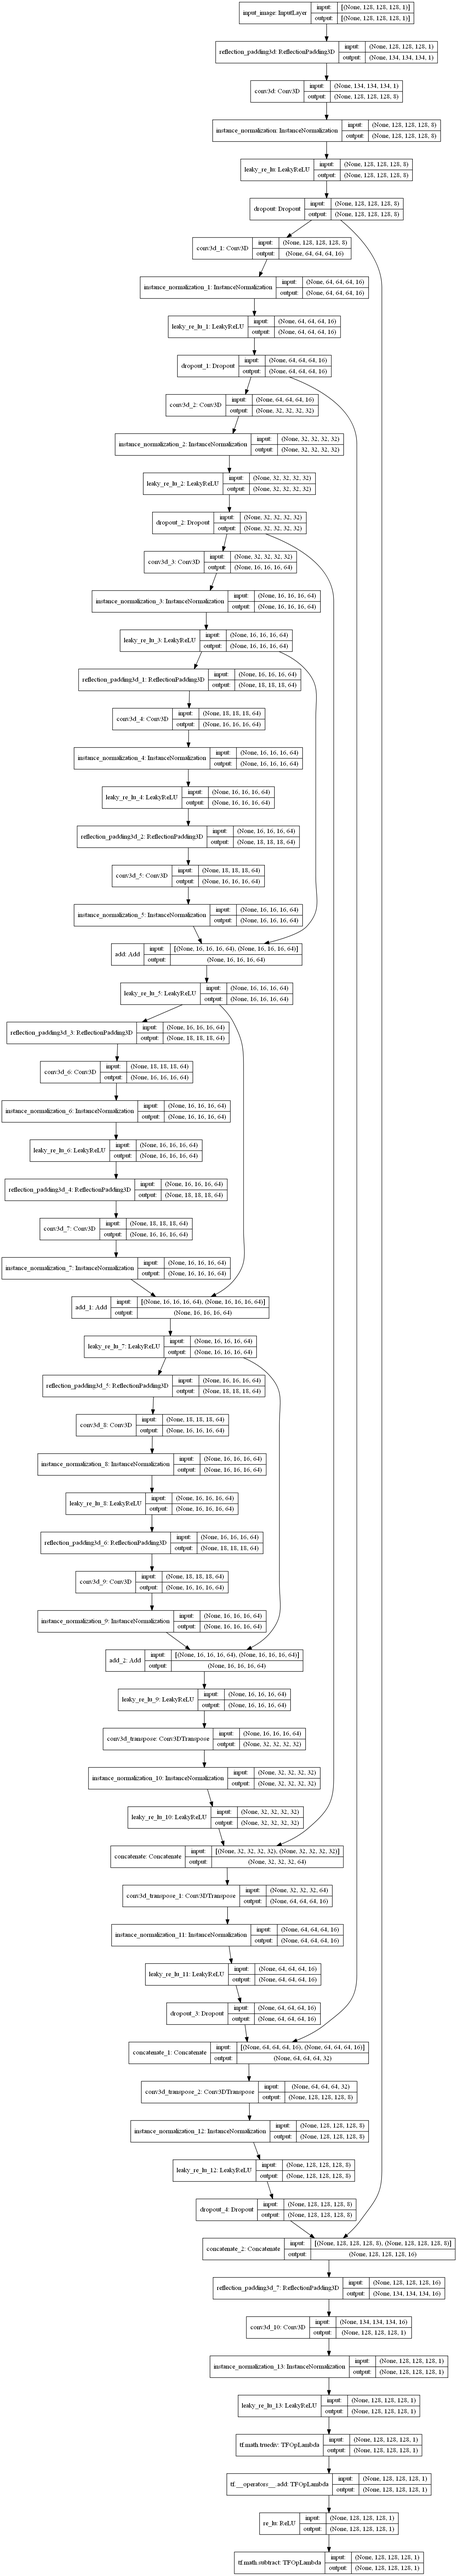
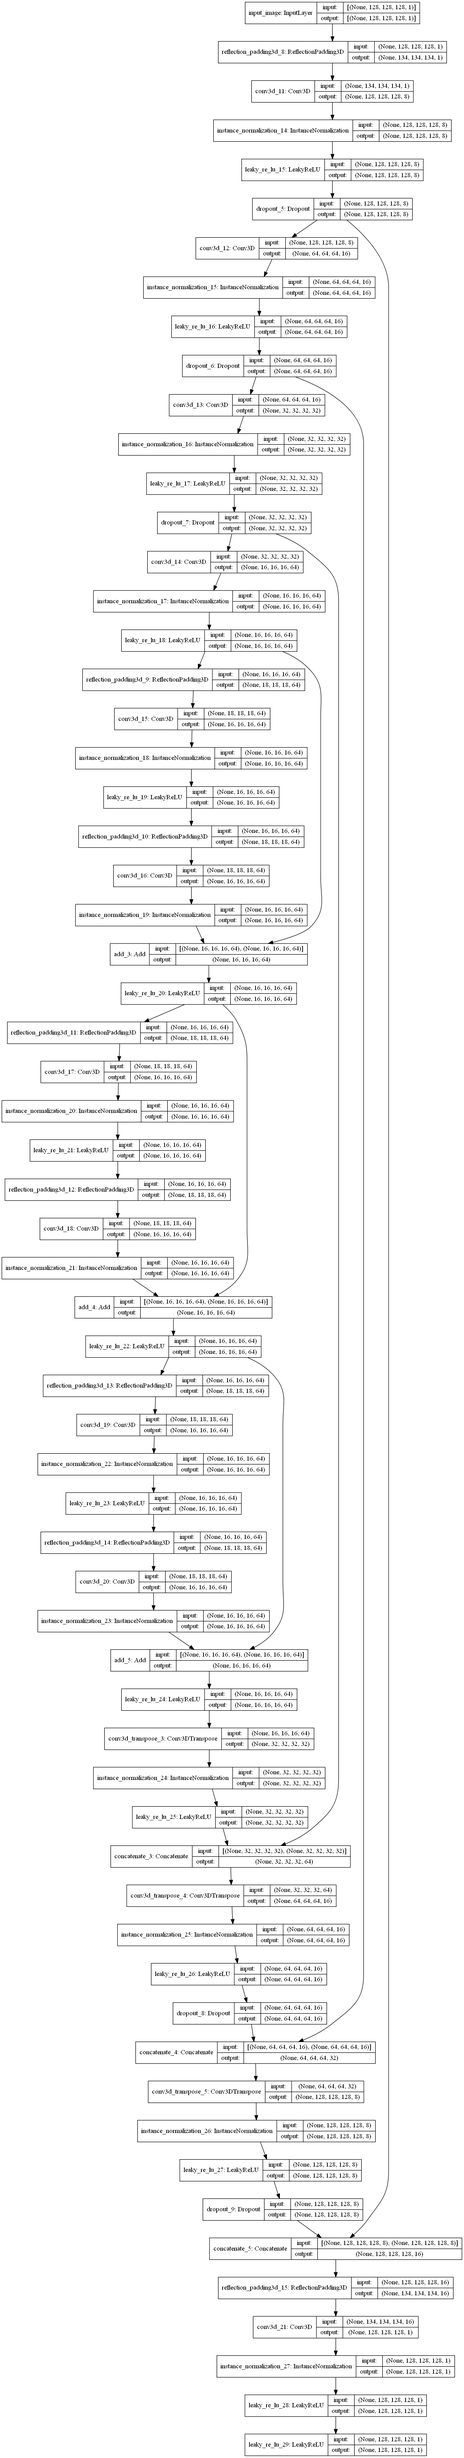
no reflect and add a layer for GAN

Changed region(s): [[0.031, 0.0, 0.9915, 1.0], [0.4648, 0.0311, 0.4957, 0.0623], [0.2479, 0.1557, 0.2789, 0.1869]]

diff --git a/pet_cycgan/model.py b/pet_cycgan/model.py
@@ -94,6 +94,55 @@ def Generator_CH_Res(input_shape):
     outputs = LeakyReLU(0.2)(x)
     return Model(inputs=inputs, outputs=outputs, name='Generator')
 
+
+def Generator_CH_NF(input_shape):
+
+    layers_to_concatenate = []
+    # inputs = Input((192, 224, 192, 1), name='input_image')
+    inputs = Input(input_shape, name='input_image')
+    nf_start = 8
+    depth, resnum = 3, 3
+    ks0 = 7
+    ks = 3
+    x = inputs
+
+    # encoder
+    for d in range(depth):
+        if d == 0:
+            x = G_conv3d(nf_start, ks=ks0, st=1, pad="same",lrelu=0.2,drop=0.2)(x)
+        else:
+            x = G_conv3d(nf_start*np.power(2, d), ks=ks, st=2, pad="same",lrelu=0.2,drop=0.2)(x)
+        layers_to_concatenate.append(x)
+    x = G_conv3d(nf_start*np.power(2, depth), ks=ks, st=2, pad="same",lrelu=0.2)(x)
+
+    # bottlenek_con
+
+    
+    # lst=x
+    # x = G_conv3d(nf_start*np.power(2, depth), ks=ks, st=1, pad="same",lrelu=0.2)(x)
+    # for i in range(resnum):
+    #     y = Concatlayer(nf_start*np.power(2, depth-1), ks)(x,lst)
+    #     lst=x
+    #     x=y
+
+    # bottlenek_Resnet
+    for i in range(resnum):
+        x = Reslayer(nf_start*np.power(2, depth), ks)(x)
+
+    # decoder
+    x = G_deconv3d(nf_start*np.power(2, depth-1), ks=ks, st=2, pad="same",lrelu=0.2)(x)
+    for d in range(depth-1, -1, -1):
+        t=layers_to_concatenate.pop()
+        x=Concatenate()([x,t])
+        if d != 0:
+            x = G_deconv3d(nf_start*np.power(2, d-1),
+                            ks=ks, st=2, pad="same",lrelu=0.2,drop=0.2)(x)
+        else:
+            x = G_conv3d(nf_start, ks=ks0, st=1, pad="same")(x)
+    x = G_conv3d(1, ks=1, st=1, pad="same")(x)
+    outputs = LeakyReLU(0.2)(x)
+    return Model(inputs=inputs, outputs=outputs, name='Generator')
+
 def Discriminator(input_shape):
     inputs = Input(input_shape, name='input_image')
     ks = 4
@@ -125,7 +174,7 @@ def showState(d:dict):
     show("")
 
 class Cycgan_pet:
-    def __init__(self,input_shape=(128,128,128,1),lamda=10,example_data=None,modality="",opt="Adam",G_net="CH_Res"):
+    def __init__(self,input_shape=(128,128,128,1),lamda=10,example_data=None,modality="",opt="Adam",G_net="CH_NF"):
         """
         Cycgan with paired data. Disc for True and fake image, and L1 loss for cycle consistency.
         """
@@ -147,7 +196,8 @@ class Cycgan_pet:
             Generator=Generator_Pan_Res
         elif G_net=="CH_Res":
             Generator=Generator_CH_Res
-
+        elif G_net=="CH_NF":
+            Generator=Generator_CH_NF
         # if opt=="Adam":
         #     Opter=tf.keras.optimizers.Adam
         # elif opt=="RMS":
@@ -414,7 +464,7 @@ class Cycgan_pet:
 
 
 if __name__ == '__main__':
-    G_CH, D = Generator_CH_Res(), Discriminator()
+    G_CH, D = Generator_CH_Res((128,128,128,1)), Discriminator((128,128,128,1))
     cyc=Cycgan_pet()
     G_CH.summary(line_length=120)
     D.summary(line_length=120)
